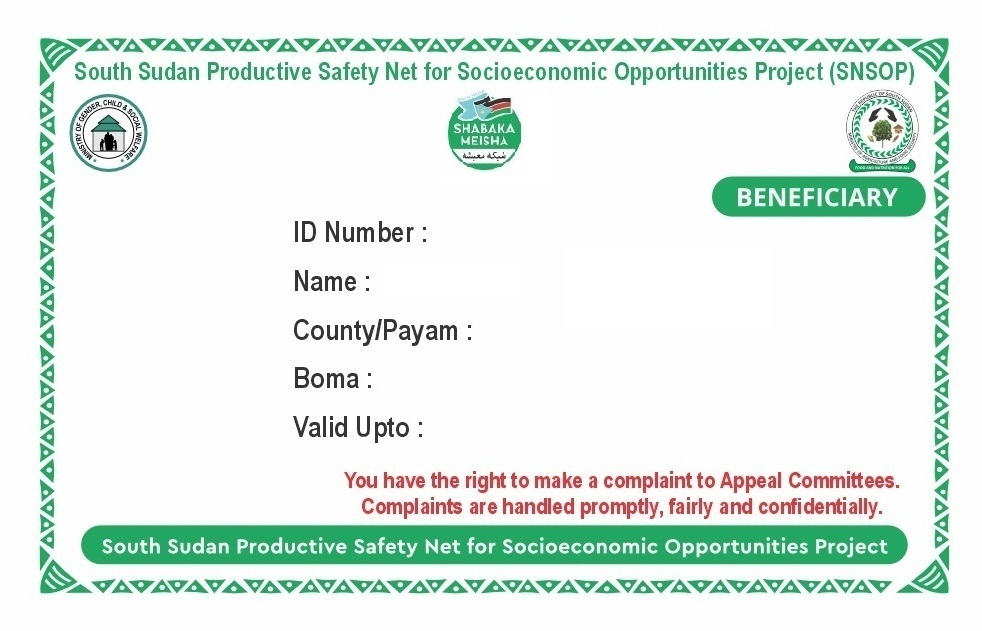
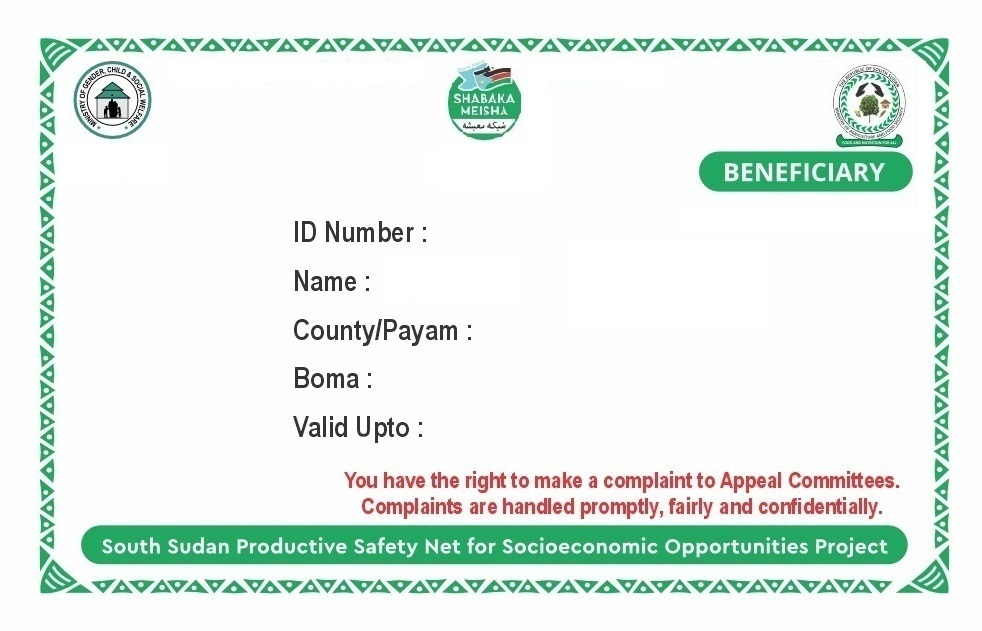
1. DB Script for component 2 enhancement 2. Auto ID Card generation feature modified 3. ID Card front template modified

Changed region(s): [[0.0611, 0.0903, 0.947, 0.3613]]

diff --git a/SSSNP/Asynch/BulkIdCardGenerationAsync.cs b/SSSNP/Asynch/BulkIdCardGenerationAsync.cs
@@ -104,7 +104,22 @@ namespace SSSNP.Asynch
         {
             try
             {
-                String sql1 = "select top 20 intBenid, household_number, " +
+                string sqlCount = "select count(intBenid) count from tbl_BeneficiaryDet where id_card_generation_status = 0";
+                DataTable dtCount = _dbOperation.GetDataTable(sqlCount);
+                if (dtCount != null && dtCount.Rows != null && dtCount.Rows.Count == 1)
+                {
+                    int count = dtCount.Rows[0]["count"] != null ? int.Parse(dtCount.Rows[0]["count"].ToString()) : 0;
+                    if (count == 0)
+                    {
+                        return;
+                    }
+                } 
+                else
+                {
+                    return;
+                }
+
+                String sql1 = "select top 50 intBenid, household_number, " +
                     "concat(concat(cou.CountieName, '/'), pay.PayamName) countyPayamName, boma.BomaName, " +
                     "NameofHousehold, Name1stAlternatePayee, Name2ndAlternatePayee, " +
                     "household_photo_url, alt1_photo_url, alt2_photo_url, " +
